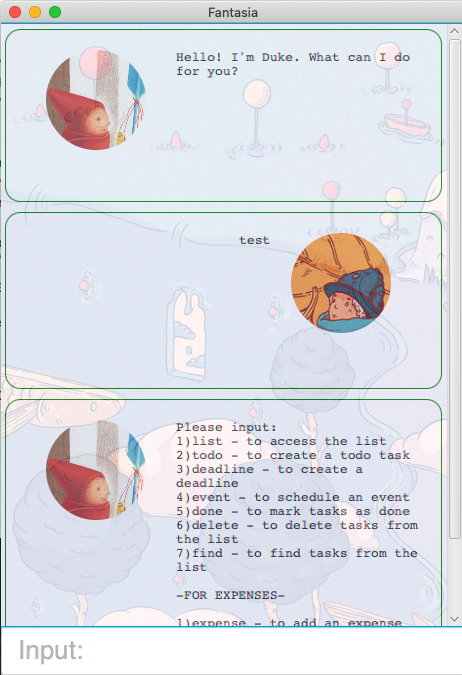
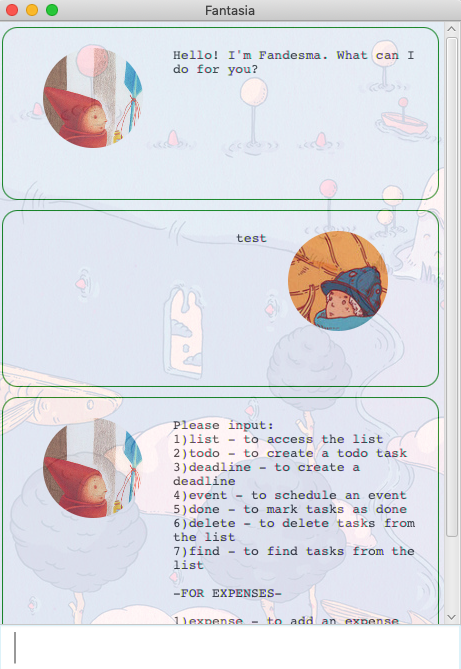
Change Ui.png

diff --git a/src/main/java/Duke/Ui.java b/src/main/java/Duke/Ui.java
@@ -21,7 +21,7 @@ public class Ui {
      * Greets the user when the program is executed.
      */
     public String greetingMessage() {
-        return ("Hello! I'm Duke. What can I do for you?");
+        return ("Hello! I'm Fandesma. What can I do for you?");
     }
 
     /**
